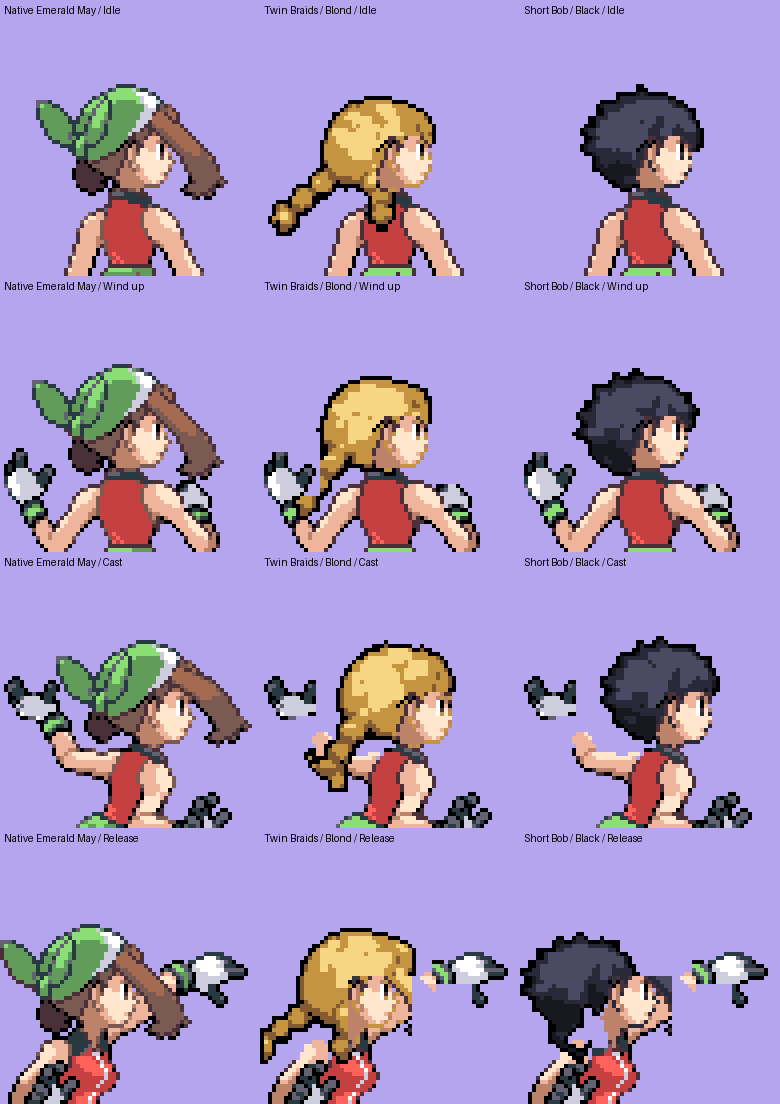
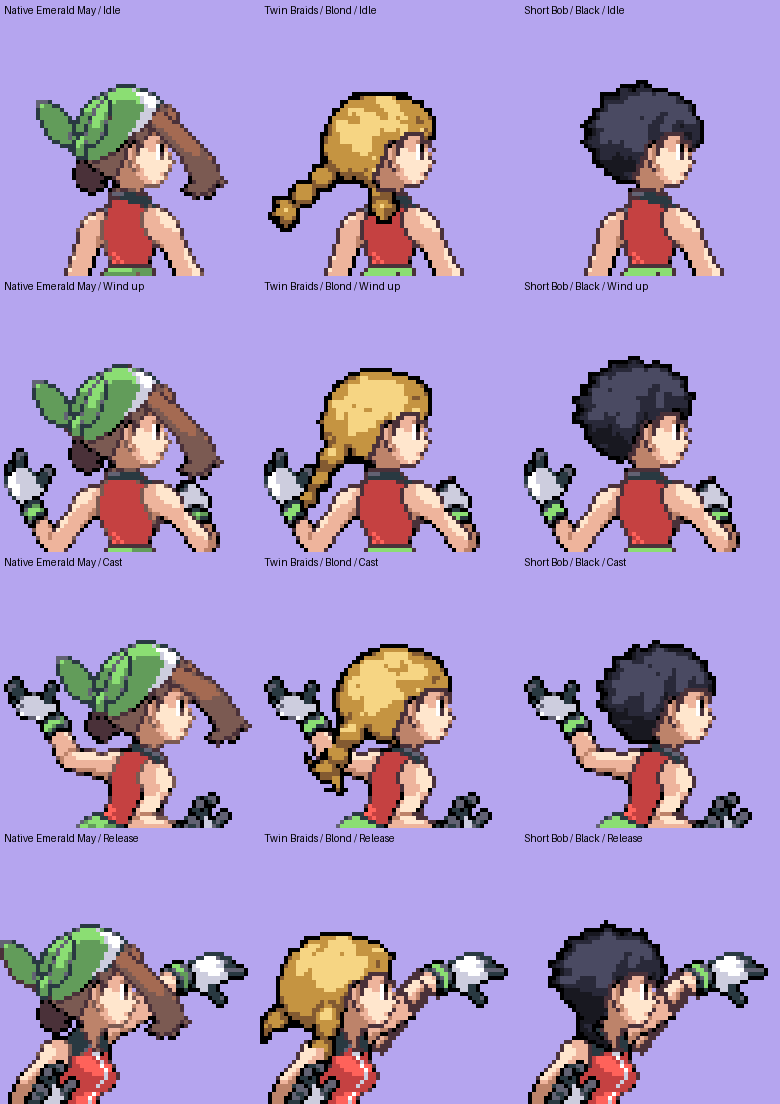
Repair battle sprite cuffs, arm and collar joins; align all hairstyles to native eyes

diff --git a/docs/changelog.html b/docs/changelog.html
@@ -27,7 +27,7 @@
       </div>
 
       <section class="changelog-view" id="release-changelog" role="tabpanel" aria-labelledby="release-tab" data-tab-panel="release">
-        <div class="change-entry"><h2>v0.0.44 <span class="change-date">October 13, 2026</span></h2><ul><li>Ten prepared female battle hairstyles use native May’s face, body proportions and throwing poses, matching your saved hairstyle and hair color after wardrobe changes.</li><li>Five independent skin tones and a fixed battle uniform keep hair, gloves and clothing colors consistent.</li><li>Male and Original-hair female battle sprites use native Emerald art. Overworld and wardrobe/front customization continue normally.</li><li>Remove May’s approved leftover shoulder pixels. Shared by Release and Debug; no variant-specific differences.</li></ul></div>
+        <div class="change-entry"><h2>v0.0.44 <span class="change-date">October 13, 2026</span></h2><ul><li>Ten prepared female battle hairstyles use native May’s face, body proportions and throwing poses, matching your saved hairstyle and hair color after wardrobe changes.</li><li>Eye-aligned hair, connected glove cuffs and repaired arm/collar boundaries keep all four poses coherent. Five independent skin tones preserve hair, gloves and fixed uniform colors.</li><li>Male and Original-hair female battle sprites use native Emerald art. Overworld and wardrobe/front customization continue normally.</li><li>Remove May’s approved leftover shoulder pixels. Shared by Release and Debug; no variant-specific differences.</li></ul></div>
         <div class="change-entry"><h2>v0.0.43.1 <span class="change-date">October 12, 2026</span></h2><ul><li>Center SLOW, MID, FAST and INSTANT between the Text Speed arrows in Options.</li><li>Shared by Release and Debug; no variant-specific differences.</li></ul></div>
         <div class="change-entry"><h2>v0.0.43 <span class="change-date">October 12, 2026</span></h2><ul><li>A second pause-menu page adds Quest Log and Achievements. Track 33 main/side quests with automatic checks and earn 80 permanent achievements.</li><li>Claim varied berry bundles once per achievement, sent directly to PC item storage. Full storage keeps rewards pending for retry.</li><li>20 Pokémon boxes (600 slots), 150 PC item slots, and larger capacity in every Bag pocket. Older Legends saves migrate automatically; continue with v0.0.43 or newer after saving.</li><li>Lossless compressed storage keeps the normal save size and both backup slots. Oversized data is refused before either saved copy changes.</li><li>Warm full house windows and pink-red Center signage, fixed bike/fishing/battle appearance, removal of May's shoulder hair triangle, and female-only Grey/Black leggings below shoes and boots.</li><li>Same gameplay and content in Release and Debug; developer conveniences remain separate. <a href="journal-guide.html">Quest and achievement guide</a>.</li></ul></div>
         <div class="change-entry"><h2>v0.0.42 <span class="change-date">October 12, 2026</span></h2><ul><li>Three more chapters: The Last Record, A Familiar Shadow, and Beyond the Horizon. Blue's eighth Gym record, Oak's Pallet investigation, and the native Faraway Island/Mew voyage complete the Wing Survey.</li><li>Western Kanto connects Pewter through Viridian Forest, Viridian, Route 1 and Pallet; Route 21 links Cinnabar by Surf. Blue offers Standard Lv. 64–68 and Champion Lv. 84–88 teams with the same permanent record.</li><li>Preserve the single native overworld Mew and deep-grass puzzle. Observation is sufficient; battle/capture is optional. Old captures get an alternate scene, and uncaught survey encounters can be retried.</li><li>Oak's one-time Master Ball supports Bag/PC fallback and full-inventory retries. New Adventure Log milestones and Birch's closing letter preserve existing saves and Hoenn postgame.</li><li>Standard house windows and Center/Mart signs illuminate at night in Hoenn and Kanto. Daytime colors and unlit roofs, walls, ground and water remain native.</li><li>Fix custom hairstyle direction changes between walking/running steps; correct bike and field-action source-frame mappings. Shared by Release and Debug. Wiki updates remain manual.</li></ul></div>
@@ -420,7 +420,7 @@
       </section>
 
       <section class="changelog-view" id="debug-changelog" role="tabpanel" aria-labelledby="debug-tab" data-tab-panel="debug" hidden>
-        <div class="change-entry"><h2>v0.0.44 <span class="change-date">October 13, 2026</span></h2><ul><li>Ten prepared female battle hairstyles use native May’s face, body proportions and throwing poses, matching your saved hairstyle and hair color after wardrobe changes.</li><li>Five independent skin tones and a fixed battle uniform keep hair, gloves and clothing colors consistent.</li><li>Male and Original-hair female battle sprites use native Emerald art. Overworld and wardrobe/front customization continue normally.</li><li>Remove May’s approved leftover shoulder pixels. Shared by Release and Debug; no variant-specific differences.</li></ul></div>
+        <div class="change-entry"><h2>v0.0.44 <span class="change-date">October 13, 2026</span></h2><ul><li>Ten prepared female battle hairstyles use native May’s face, body proportions and throwing poses, matching your saved hairstyle and hair color after wardrobe changes.</li><li>Eye-aligned hair, connected glove cuffs and repaired arm/collar boundaries keep all four poses coherent. Five independent skin tones preserve hair, gloves and fixed uniform colors.</li><li>Male and Original-hair female battle sprites use native Emerald art. Overworld and wardrobe/front customization continue normally.</li><li>Remove May’s approved leftover shoulder pixels. Shared by Release and Debug; no variant-specific differences.</li></ul></div>
         <div class="change-entry"><h2>v0.0.43.1 <span class="change-date">October 12, 2026</span></h2><ul><li>Center SLOW, MID, FAST and INSTANT between the Text Speed arrows in Options.</li><li>Shared by Release and Debug; no variant-specific differences.</li></ul></div>
         <div class="change-entry"><h2>v0.0.43 <span class="change-date">October 12, 2026</span></h2><ul><li>A second pause-menu page adds Quest Log and Achievements. Track 33 main/side quests with automatic checks and earn 80 permanent achievements.</li><li>Claim varied berry bundles once per achievement, sent directly to PC item storage. Full storage keeps rewards pending for retry.</li><li>20 Pokémon boxes (600 slots), 150 PC item slots, and larger capacity in every Bag pocket. Older Legends saves migrate automatically; continue with v0.0.43 or newer after saving.</li><li>Lossless compressed storage keeps the normal save size and both backup slots. Oversized data is refused before either saved copy changes.</li><li>Warm full house windows and pink-red Center signage, fixed bike/fishing/battle appearance, removal of May's shoulder hair triangle, and female-only Grey/Black leggings below shoes and boots.</li><li>Same gameplay and content in Release and Debug; developer conveniences remain separate. <a href="journal-guide.html">Quest and achievement guide</a>.</li></ul></div>
         <div class="change-entry"><h2>v0.0.42 <span class="change-date">October 12, 2026</span></h2><ul><li>Three more chapters: The Last Record, A Familiar Shadow, and Beyond the Horizon. Blue's eighth Gym record, Oak's Pallet investigation, and the native Faraway Island/Mew voyage complete the Wing Survey.</li><li>Western Kanto connects Pewter through Viridian Forest, Viridian, Route 1 and Pallet; Route 21 links Cinnabar by Surf. Blue offers Standard Lv. 64–68 and Champion Lv. 84–88 teams with the same permanent record.</li><li>Preserve the single native overworld Mew and deep-grass puzzle. Observation is sufficient; battle/capture is optional. Old captures get an alternate scene, and uncaught survey encounters can be retried.</li><li>Oak's one-time Master Ball supports Bag/PC fallback and full-inventory retries. New Adventure Log milestones and Birch's closing letter preserve existing saves and Hoenn postgame.</li><li>Standard house windows and Center/Mart signs illuminate at night in Hoenn and Kanto. Daytime colors and unlit roofs, walls, ground and water remain native.</li><li>Fix custom hairstyle direction changes between walking/running steps; correct bike and field-action source-frame mappings. Shared by Release and Debug. Wiki updates remain manual.</li></ul></div>

diff --git a/tools/legends/import_battle_sheets.py b/tools/legends/import_battle_sheets.py
@@ -6,9 +6,9 @@ The resulting static sheets use native 4bpp layout and independent skin and
 hair palette slots. Nothing is composited or inferred during battle.
 """
 import json
-from PIL import Image
+from PIL import Image, ImageDraw
 from build_appearance import ROOT, pack, frames
-from build_style_layers import head, coat_hands, BACK_FRONT_LOCK_RECTS
+from build_style_layers import head, BACK_FRONT_LOCK_RECTS
 
 COLUMNS = ((244,552),(557,877),(882,1203),(1208,1523))
 ROWS = ((133,262),(266,399),(403,535),(540,674),(679,812),(818,952),(958,1103))
@@ -76,37 +76,101 @@ def source_hair(im, column):
             if max(rr,g,bb)<85 and rr+g+bb<175:hair.add((x,y))
     return cell,hair,(fl,ft,fr,fb)
 
+def neighbors(points):
+    return {(x+dx,y+dy) for x,y in points for dx,dy in
+            ((-1,-1),(0,-1),(1,-1),(-1,0),(0,0),(1,0),(-1,1),(0,1),(1,1))
+            if 0<=x+dx<64 and 0<=y+dy<64}
+
+def eye_anchor(p, face):
+    l,t,r,b=bounds(face)
+    eye={(x,y) for y in range(t,b+1) for x in range(l,r+1) if p[y][x]==14}
+    assert eye, 'native eye landmark missing'
+    return sum(x for x,y in eye)/len(eye),sum(y for x,y in eye)/len(eye)
+
+def source_eye(cell, face):
+    l,t,r,b=face
+    whites={(x,y) for y in range(t,b+1) for x in range(l,r+1)
+            if min(cell.getpixel((x,y)))>165 and
+            max(cell.getpixel((x,y)))-min(cell.getpixel((x,y)))<30}
+    assert whites, 'source eye landmark missing'
+    eye=groups(whites)[0]
+    return sum(x for x,y in eye)/len(eye),sum(y for x,y in eye)/len(eye)
+
+# Native collar pixels sit partly inside the old bandana/hair envelope.
+COLLAR_RECTS = ((25,41,41,48),(30,41,44,50),(15,44,30,54),(26,40,42,48))
+# Exact glove/cuff regions, rather than the outfit compositor's broad bare-
+# hand rectangles (which also include native hat/hair in the raised poses).
+GLOVE_RECTS = (
+    ((0,38,14,52),(43,45,54,56)),
+    ((0,25,13,35),(0,35,17,43),(46,54,56,63)),
+    ((41,25,63,37),(5,50,15,63)),
+    (),
+)
+RETIRED_NAPE = (((19,43,24,44),),(),(),((22,43,23,43),))
+
+def native_hands(p, pose):
+    result=set()
+    for l,t,r,b in GLOVE_RECTS[pose]:
+        points={(x,y) for y in range(t,b+1) for x in range(l,r+1) if p[y][x]}
+        if (pose==0 and l==43) or (pose==2 and l==41):
+            # Swept brown hair abuts these hands but is not glove anatomy.
+            core={q for q in points if p[q[1]][q[0]] in (1,2,3,5,6,9,10,11,14)}
+            points=core|{q for q in neighbors(core)&points if p[q[1]][q[0]]==15}
+        result.update(points)
+    return result
+
 def native_base(p, pose):
-    """Remove native bandana/hair while keeping the exact face and body grid."""
+    """Retain anatomy; remove only the native headwear and swept locks."""
     face,box,_,_=head(p,1,'back',pose)
     fl,ft,fr,fb=bounds(face)
-    protected={(x,y) for y,row in enumerate(p) for x,v in enumerate(row) if v in (1,2,3,12,13)}
-    # The eye, nose, mouth, ear and face contour remain native. Glove/hand
-    # protection is pose-specific because the casting arm crosses the head.
-    face_protected={(x,y) for y in range(ft,fb+1) for x in range(fl,fr+1)
-                    if p[y][x] not in (0,10,11)}
-    protected.update(face_protected)
-    protected.update(coat_hands(1,'back',pose))
+    white={(x,y) for y in range(ft,fb+1) for x in range(fl,fr+1) if p[y][x]==14}
+    eye=white|{(x,y) for x,y in neighbors(neighbors(white)) if p[y][x] in (5,6,9,14,15)}
+    # A filled face rectangle also retains old hair beside the cheek. Keep
+    # actual skin/eye cells and their one-pixel contour instead.
+    features=face|eye
+    face_protected=features|{(x,y) for x,y in neighbors(features) if p[y][x] in (4,7,8,15)}
+    hands=native_hands(p,pose)
+    l,t,r,b=COLLAR_RECTS[pose]
+    collar={(x,y) for y in range(t,b+1) for x in range(l,r+1) if p[y][x] in (5,6)}
+    body={(x,y) for y,row in enumerate(p) for x,v in enumerate(row)
+          if v in (12,13) or (v in (1,2,3) and (x,y) not in face)}
+    body_edges={(x,y) for x,y in neighbors(body|hands|collar) if p[y][x] in (4,8,15)}
+    keep=face_protected|hands|collar|body|body_edges
     erase=set()
     for rect in (box,BACK_FRONT_LOCK_RECTS[pose]):
         l,t,r,b=rect
         for y in range(t,b+1):
             for x in range(l,r+1):
-                if (x,y) not in protected and (rect==box or p[y][x] in (4,7,8,15)):
+                if (x,y) not in keep and (rect==box or p[y][x] in (4,7,8,15)):
                     erase.add((x,y))
-    # The old nape has two dark rows below the face envelope. Clear its
-    # outer sweep while keeping the connected native neck/collar in place.
-    for y in range(fb+1,min(64,fb+4)):
-        for x in range(max(0,fl-15),max(0,fl-3)):
-            if (x,y) not in protected and p[y][x] in (4,7,8,15):erase.add((x,y))
+    for l,t,r,b in RETIRED_NAPE[pose]:
+        for y in range(t,b+1):
+            for x in range(l,r+1):
+                if p[y][x] in (4,7,8,15):erase.add((x,y))
     out=[row[:] for row in p]
     for x,y in erase:out[y][x]=0
+    # The release forearm was hidden beneath May's original swept hair.
+    # Restore it behind the native face and in front of the new hair. The
+    # skin materials remain 1/2/3 so all five tones affect the restored arm.
+    arm=set()
+    if pose==2:
+        patch=Image.new('L',(64,64));draw=ImageDraw.Draw(patch)
+        draw.polygon(((25,49),(30,51),(43,35),(43,31),(39,30),(26,44)),fill=8)
+        draw.polygon(((27,48),(29,49),(41,34),(41,32),(39,32),(28,44)),fill=2)
+        draw.polygon(((28,44),(39,32),(40,32),(29,47)),fill=1)
+        draw.line(((28,48),(29,49),(41,34)),fill=3,width=1)
+        for y in range(64):
+            for x in range(64):
+                v=patch.getpixel((x,y))
+                if v:
+                    arm.add((x,y))
+                    if (x,y) not in keep:out[y][x]=v
     for y,row in enumerate(out):
         for x,v in enumerate(row):
             if v==11:row[x]=10
-            elif v==7:row[x]=11
-            elif v==4:row[x]=7 if (x,y) in face_protected else 8
-    return out,face_protected|coat_hands(1,'back',pose),erase,(fl,ft,fr,fb)
+            elif v==7:row[x]=8 if (x,y) in keep else 11
+            elif v==4:row[x]=8
+    return out,face_protected|hands|arm,erase,(fl,ft,fr,fb)
 
 def convert(im, column, p, pose):
     cell,hair,source_face=source_hair(im,column)
@@ -115,9 +179,12 @@ def convert(im, column, p, pose):
     # The supplied artwork's logical grid is about three source pixels per
     # native pixel. Align to the native forehead/cheek, never the arm span.
     scale=1/3
+    sx,sy=source_eye(cell,source_face)
+    native_skin,_,_,_=head(p,1,'back',pose)
+    nx,ny=eye_anchor(p,native_skin)
     mask={};samples={}
     for x,y in hair:
-        q=(round((x-fr)*scale+nr),round((y-ft)*scale+nt))
+        q=(round((x-sx)*scale+nx),round((y-sy)*scale+ny))
         if 0<=q[0]<64 and 0<=q[1]<64:
             samples.setdefault(q,[]).append(cell.getpixel((x,y)))
     # Snap to one logical-pixel outline and broad native color clusters.

diff --git a/test/legends-battle-sheets.test.py b/test/legends-battle-sheets.test.py
@@ -32,6 +32,21 @@ for n in range(10):
   for y in range(60,64):
    for x in range(64):
     assert cell(x,y)==base[y][x],('native lower-body geometry',n,pose,x,y)
+  # This uses only the shipped bitmap, not the importer's protection mask:
+  # fingers, cuffs, neck and hair must belong to the same solid silhouette.
+  occupied={(x,y) for y in range(64) for x in range(64) if cell(x,y)}
+  reached={next(iter(occupied))};queue=list(reached)
+  for x,y in queue:
+   for dx,dy in ((-1,-1),(0,-1),(1,-1),(-1,0),(1,0),(-1,1),(0,1),(1,1)):
+    q=(x+dx,y+dy)
+    if q in occupied and q not in reached:reached.add(q);queue.append(q)
+  assert reached==occupied,('detached glove/hair/neck pixels',n,pose,occupied-reached)
+  if pose==1:
+   # The original bug erased this native green cuff beneath the raised hand.
+   for x,y in ((12,37),(13,37),(14,37),(15,37),(12,38),(13,38),(11,39)):
+    assert cell(x,y)==10,('raised glove cuff',n,x,y)
+  for x,y in importer.head(p,1,'back',pose)[0]:
+   assert cell(x,y)==p[y][x],('native face skin',n,pose,x,y)
 
 manifest=json.loads((root/'tools/legends/battle_sheets.json').read_text())
 names=['pixie','side_part','soft_layers','side_sweep','wavy_bob','short_bob','long_bob','curls','ponytail','twin_braids']

diff --git a/docs/features/battle-appearance.md b/docs/features/battle-appearance.md
@@ -4,7 +4,7 @@ Battle backs use fixed clothing. Overworld/front portraits still use the full wa
 
 ## Authoring and palettes
 
-`tools/legends/battle_sheets.json` is the name/ID/source manifest. Original uploads live under `graphics/legends/battle_sources`. The presentation sheets supply hair shapes and contours only. `import_battle_sheets.py` removes their background/grid, extracts the Natural-row hair regions and fits the original logical pixel grid to native May's forehead/cheek landmarks. The original Emerald body, face, eye, gloves and four pose geometries supply the trainer. The whole supplied character is never scaled to fit the arm span. The earlier undersized whole-character conversion is superseded.
+`tools/legends/battle_sheets.json` is the name/ID/source manifest. Original uploads live under `graphics/legends/battle_sources`. The presentation sheets supply hair shapes and contours only. `import_battle_sheets.py` removes their background/grid, extracts the Natural-row hair regions and fits the original logical pixel grid to native May's eye landmarks. The original Emerald body, face, eyes and four pose geometries supply the trainer. Eye-based alignment prevents an arm touching the cheek from shifting a hairstyle when a skin bounding box grows. Pose-specific glove/cuff regions and actual face contours replace broad head/hand rectangles; collar colors and body outlines are retained, and isolated native nape/forelock remnants are cleared. The release arm segment formerly hidden by May’s swept hair is restored with skin materials 1–3, behind the face and in front of the hair. The whole supplied character is never scaled to fit the arm span. The earlier undersized whole-character conversion is superseded.
 
 The generated indexed source sheets and 81920-byte frame bank are in `graphics/legends/battle_may`. Skin slots 1–3 reuse the existing five skin-tone ramps. Hair has a clean three-shade ramp in slots 4, 7 and 11, with native black outlines. Body-only warm edge pixels are consolidated into fixed shade 8, and belt greens into fixed slot 10; hair color therefore cannot tint skin edges, gloves, clothing or the belt. Eight hair ramps retain Natural, Black, Dark Brown, Chestnut, Auburn, Honey, Blond and Silver. All art is static native tiled 4bpp; there is no runtime head/body layering.
 
@@ -18,6 +18,6 @@ Battle choices ignore outfit/accessory/costume IDs when choosing the fixed unifo
 
 ## Validation
 
-The prepared-sprite regression regenerates the checked-in art and runs the actual C image/palette selector across all ten cuts, eight hair colors and five skin tones. It checks stable hairstyle IDs, frame sizes, preserved native face/hand/lower-body cells, native routing, fixed uniforms for every wardrobe trainer ID, independent non-skin colors and a simulated wardrobe cut/color/tone change. Existing footwear, appearance, intro-hair, wardrobe and sprite-mask regressions also apply. Local Debug compiled with GCC 13.2.1. mGBA 0.10.2 rendered all ten imported cuts and all five skin tones from the compiled image/palette selectors. Actual wardrobe controls changed Short Bob/Black to Twin Braids/Blond, left saved choices unchanged while staging, and saved the new choices only on APPLY. The next normal wild battle displayed Twin Braids/Blond/Tan in the fixed red uniform; the native moving Ball and trainer throw completed and Pikachu entered normally. [Native-size comparison](../qa/prepared-native-comparison-v0.0.44.png), [same-scale real battle comparison](../qa/prepared-battle-comparison-v0.0.44.png), [skin-tone evidence](../qa/prepared-skin-tones-v0.0.44.png), [all ten cuts](../qa/prepared-styles-v0.0.44.png), [wardrobe](../qa/prepared-wardrobe-v0.0.44.png), [next battle](../qa/prepared-wardrobe-battle-v0.0.44.png), [animated throw](../qa/prepared-throw-v0.0.44.gif).
+The prepared-sprite regression regenerates the checked-in art and runs the actual C image/palette selector across all ten cuts, eight hair colors and five skin tones. It checks stable hairstyle IDs, frame sizes, preserved native face skin/eyes and lower-body cells, complete raised cuffs, one connected silhouette in every frame, native routing, fixed uniforms for every wardrobe trainer ID, independent non-skin colors and a simulated wardrobe cut/color/tone change. Existing footwear, appearance, intro-hair, wardrobe and sprite-mask regressions also apply. Local Debug compiled with GCC 13.2.1. mGBA 0.10.2 rendered all ten imported cuts and all five skin tones from the compiled image/palette selectors. Actual wardrobe controls changed Short Bob/Black to Twin Braids/Blond, left saved choices unchanged while staging, and saved the new choices only on APPLY. The next normal wild battle displayed Twin Braids/Blond/Tan in the fixed red uniform; the native moving Ball and trainer throw completed and Pikachu entered normally. [Before/after boundary repair](../qa/prepared-refinement-v0.0.44.png), [native-size comparison](../qa/prepared-native-comparison-v0.0.44.png), [same-scale real battle comparison](../qa/prepared-battle-comparison-v0.0.44.png), [skin-tone evidence](../qa/prepared-skin-tones-v0.0.44.png), [all ten cuts](../qa/prepared-styles-v0.0.44.png), [wardrobe](../qa/prepared-wardrobe-v0.0.44.png), [next battle](../qa/prepared-wardrobe-battle-v0.0.44.png), [animated throw](../qa/prepared-throw-v0.0.44.gif), [corrected Short Bob throw](../qa/prepared-short-bob-throw-v0.0.44.gif).
 
 The style/skin galleries are decoded native 4bpp buffers with palettes read from the compiled ROM. Wardrobe/battle/throw evidence comes from actual emulator video output. This is targeted visual verification, not an exhaustive test of every combination through a full playthrough. The revised art remains on draft PR #60 pending visual approval. Both verified BPS workflows must pass before a release can be published.

diff --git a/CHANGELOG.md b/CHANGELOG.md
@@ -10,6 +10,7 @@ For build-specific player views, see [CHANGELOG-RELEASE.md](CHANGELOG-RELEASE.md
 - Give battle art an independent palette with five dedicated skin-tone ramps. Preserve hair, red uniform, gloves and outlines when skin tone changes. Keep all eight existing in-game hair-color choices, including Dark Brown.
 - Use a fixed battle uniform instead of layering wardrobe outfits, coats, scarves, footwear, leggings or costumes onto battle backs. Overworld customization and front/wardrobe portraits continue normally. Male and Original-hair female battles use native Emerald art with the selected skin tone until corresponding prepared sheets are available.
 - Fit the supplied hair to native May's original face, body proportions and four throwing poses, using clean three-shade Emerald hair palettes. Keep the native 64x64 frames and moving Ball animation; omit the detached illustration Ball from the supplied sheets.
+- Align battle hair to native eyes in every pose. Preserve full glove cuffs and collar boundaries, restore the arm hidden under May's original hair, and remove leftover forelock/nape pixels; check all 40 frames for detached anatomy or stray pixels.
 - Remove the approved three leftover shoulder cells from May's custom front portraits, including geometry added by legacy jacket assets. Preserve the connected collar and sleeve.
 - Shared by Release and Debug; no variant-specific gameplay differences. Prepared-sprite pipeline and validation: `docs/features/battle-appearance.md`.
 

diff --git a/CHANGELOG-DEBUG.md b/CHANGELOG-DEBUG.md
@@ -8,6 +8,7 @@ This is the developer-facing history for the **Debug** build. Shared Legends cha
 - Give battle art an independent palette with five dedicated skin-tone ramps. Preserve hair, red uniform, gloves and outlines when skin tone changes. Keep all eight existing in-game hair-color choices, including Dark Brown.
 - Use a fixed battle uniform instead of layering wardrobe outfits, coats, scarves, footwear, leggings or costumes onto battle backs. Overworld customization and front/wardrobe portraits continue normally. Male and Original-hair female battles use native Emerald art with the selected skin tone until corresponding prepared sheets are available.
 - Fit the supplied hair to native May's original face, body proportions and four throwing poses, using clean three-shade Emerald hair palettes. Keep the native 64x64 frames and moving Ball animation; omit the detached illustration Ball from the supplied sheets.
+- Align battle hair to native eyes in every pose. Preserve full glove cuffs and collar boundaries, restore the arm hidden under May's original hair, and remove leftover forelock/nape pixels; check all 40 frames for detached anatomy or stray pixels.
 - Remove the approved three leftover shoulder cells from May's custom front portraits, including geometry added by legacy jacket assets. Preserve the connected collar and sleeve.
 - Shared by Release and Debug; no variant-specific gameplay differences. Prepared-sprite pipeline and validation: `docs/features/battle-appearance.md`.
 

diff --git a/CHANGELOG-RELEASE.md b/CHANGELOG-RELEASE.md
@@ -8,6 +8,7 @@ This is the player-facing history for the recommended **Release** build. Shared 
 - Give battle art an independent palette with five dedicated skin-tone ramps. Preserve hair, red uniform, gloves and outlines when skin tone changes. Keep all eight existing in-game hair-color choices, including Dark Brown.
 - Use a fixed battle uniform instead of layering wardrobe outfits, coats, scarves, footwear, leggings or costumes onto battle backs. Overworld customization and front/wardrobe portraits continue normally. Male and Original-hair female battles use native Emerald art with the selected skin tone until corresponding prepared sheets are available.
 - Fit the supplied hair to native May's original face, body proportions and four throwing poses, using clean three-shade Emerald hair palettes. Keep the native 64x64 frames and moving Ball animation; omit the detached illustration Ball from the supplied sheets.
+- Align battle hair to native eyes in every pose. Preserve full glove cuffs and collar boundaries, restore the arm hidden under May's original hair, and remove leftover forelock/nape pixels; check all 40 frames for detached anatomy or stray pixels.
 - Remove the approved three leftover shoulder cells from May's custom front portraits, including geometry added by legacy jacket assets. Preserve the connected collar and sleeve.
 - Shared by Release and Debug; no variant-specific gameplay differences. Prepared-sprite pipeline and validation: `docs/features/battle-appearance.md`.
 
